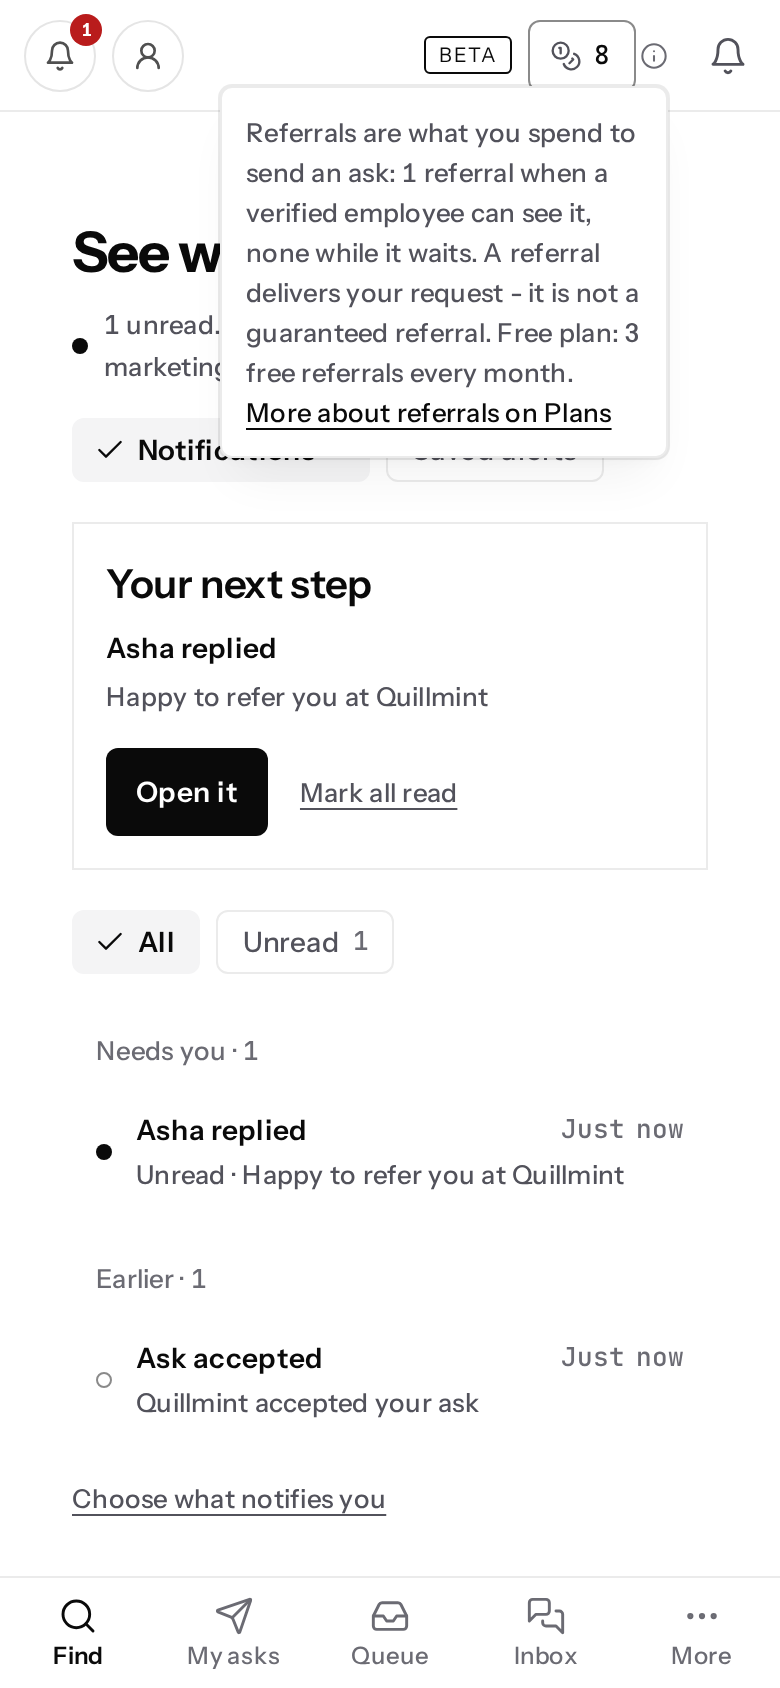
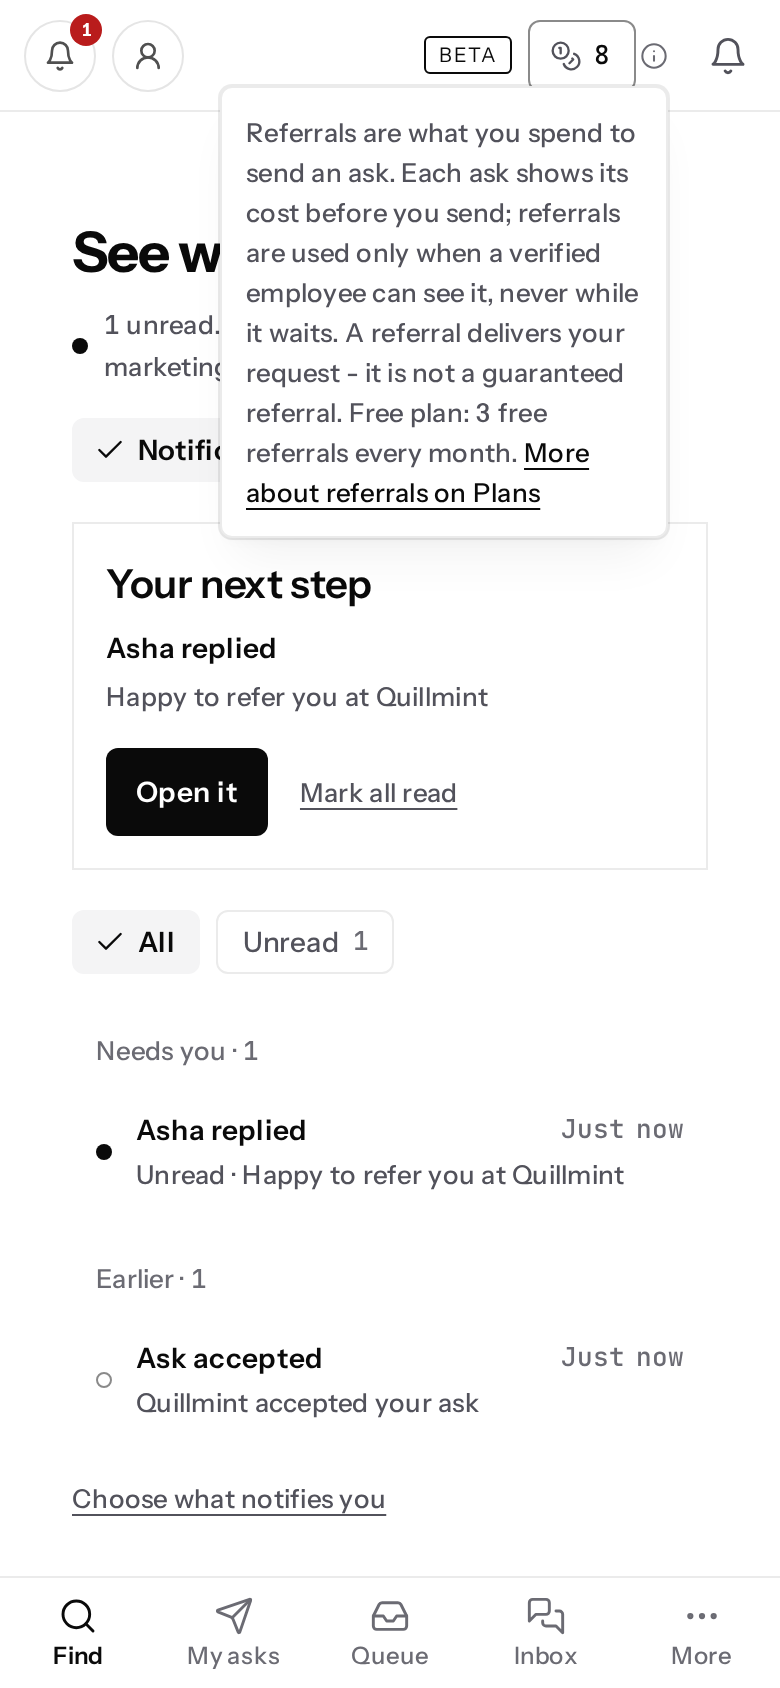
D-048-alerts: keep referral note cost-agnostic
The per-ask cost is not uniformly 1 under the frozen Oct-21 level model
(L1=1..L10=10), so the note no longer promises a flat cost: each ask shows
its cost before send, referrals are used only when a verified employee can
see it, never while it waits.

Changed region(s): [[0.3077, 0.0924, 0.8308, 0.3081]]

diff --git a/client/src/components/goal/GoalShell.tsx b/client/src/components/goal/GoalShell.tsx
@@ -67,7 +67,7 @@ function CreditsPill({ credits, compact }: { credits: GoalShellCredits; compact?
         {compact ? null : <span>{" "}referrals</span>}
       </a>
       <GoalInfoNote label="What are referrals?">
-        Referrals are what you spend to send an ask: 1 referral when a verified employee can see it, none while it waits. A referral delivers your request - it is not a guaranteed referral. Free plan: 3 free referrals every month.{" "}
+        Referrals are what you spend to send an ask. Each ask shows its cost before you send; referrals are used only when a verified employee can see it, never while it waits. A referral delivers your request - it is not a guaranteed referral. Free plan: 3 free referrals every month.{" "}
         <a href="/plans" className="text-g-ink underline underline-offset-[3px]">More about referrals on Plans</a>
       </GoalInfoNote>
     </span>

diff --git a/client/src/components/goal/goalInfoNote.test.tsx b/client/src/components/goal/goalInfoNote.test.tsx
@@ -9,7 +9,7 @@ import { GoalInfoNote } from "@/components/goal/GoalInfoNote";
 function renderNote() {
   return render(
     <GoalInfoNote label="What are referrals?">
-      Referrals are what you spend to send an ask: 1 referral when a verified employee can see it, none while it waits. A referral delivers your request - it is not a guaranteed referral.{" "}
+      Referrals are what you spend to send an ask. Each ask shows its cost before you send; referrals are used only when a verified employee can see it, never while it waits. A referral delivers your request - it is not a guaranteed referral.{" "}
       <a href="/plans">More about referrals on Plans</a>
     </GoalInfoNote>,
   );
